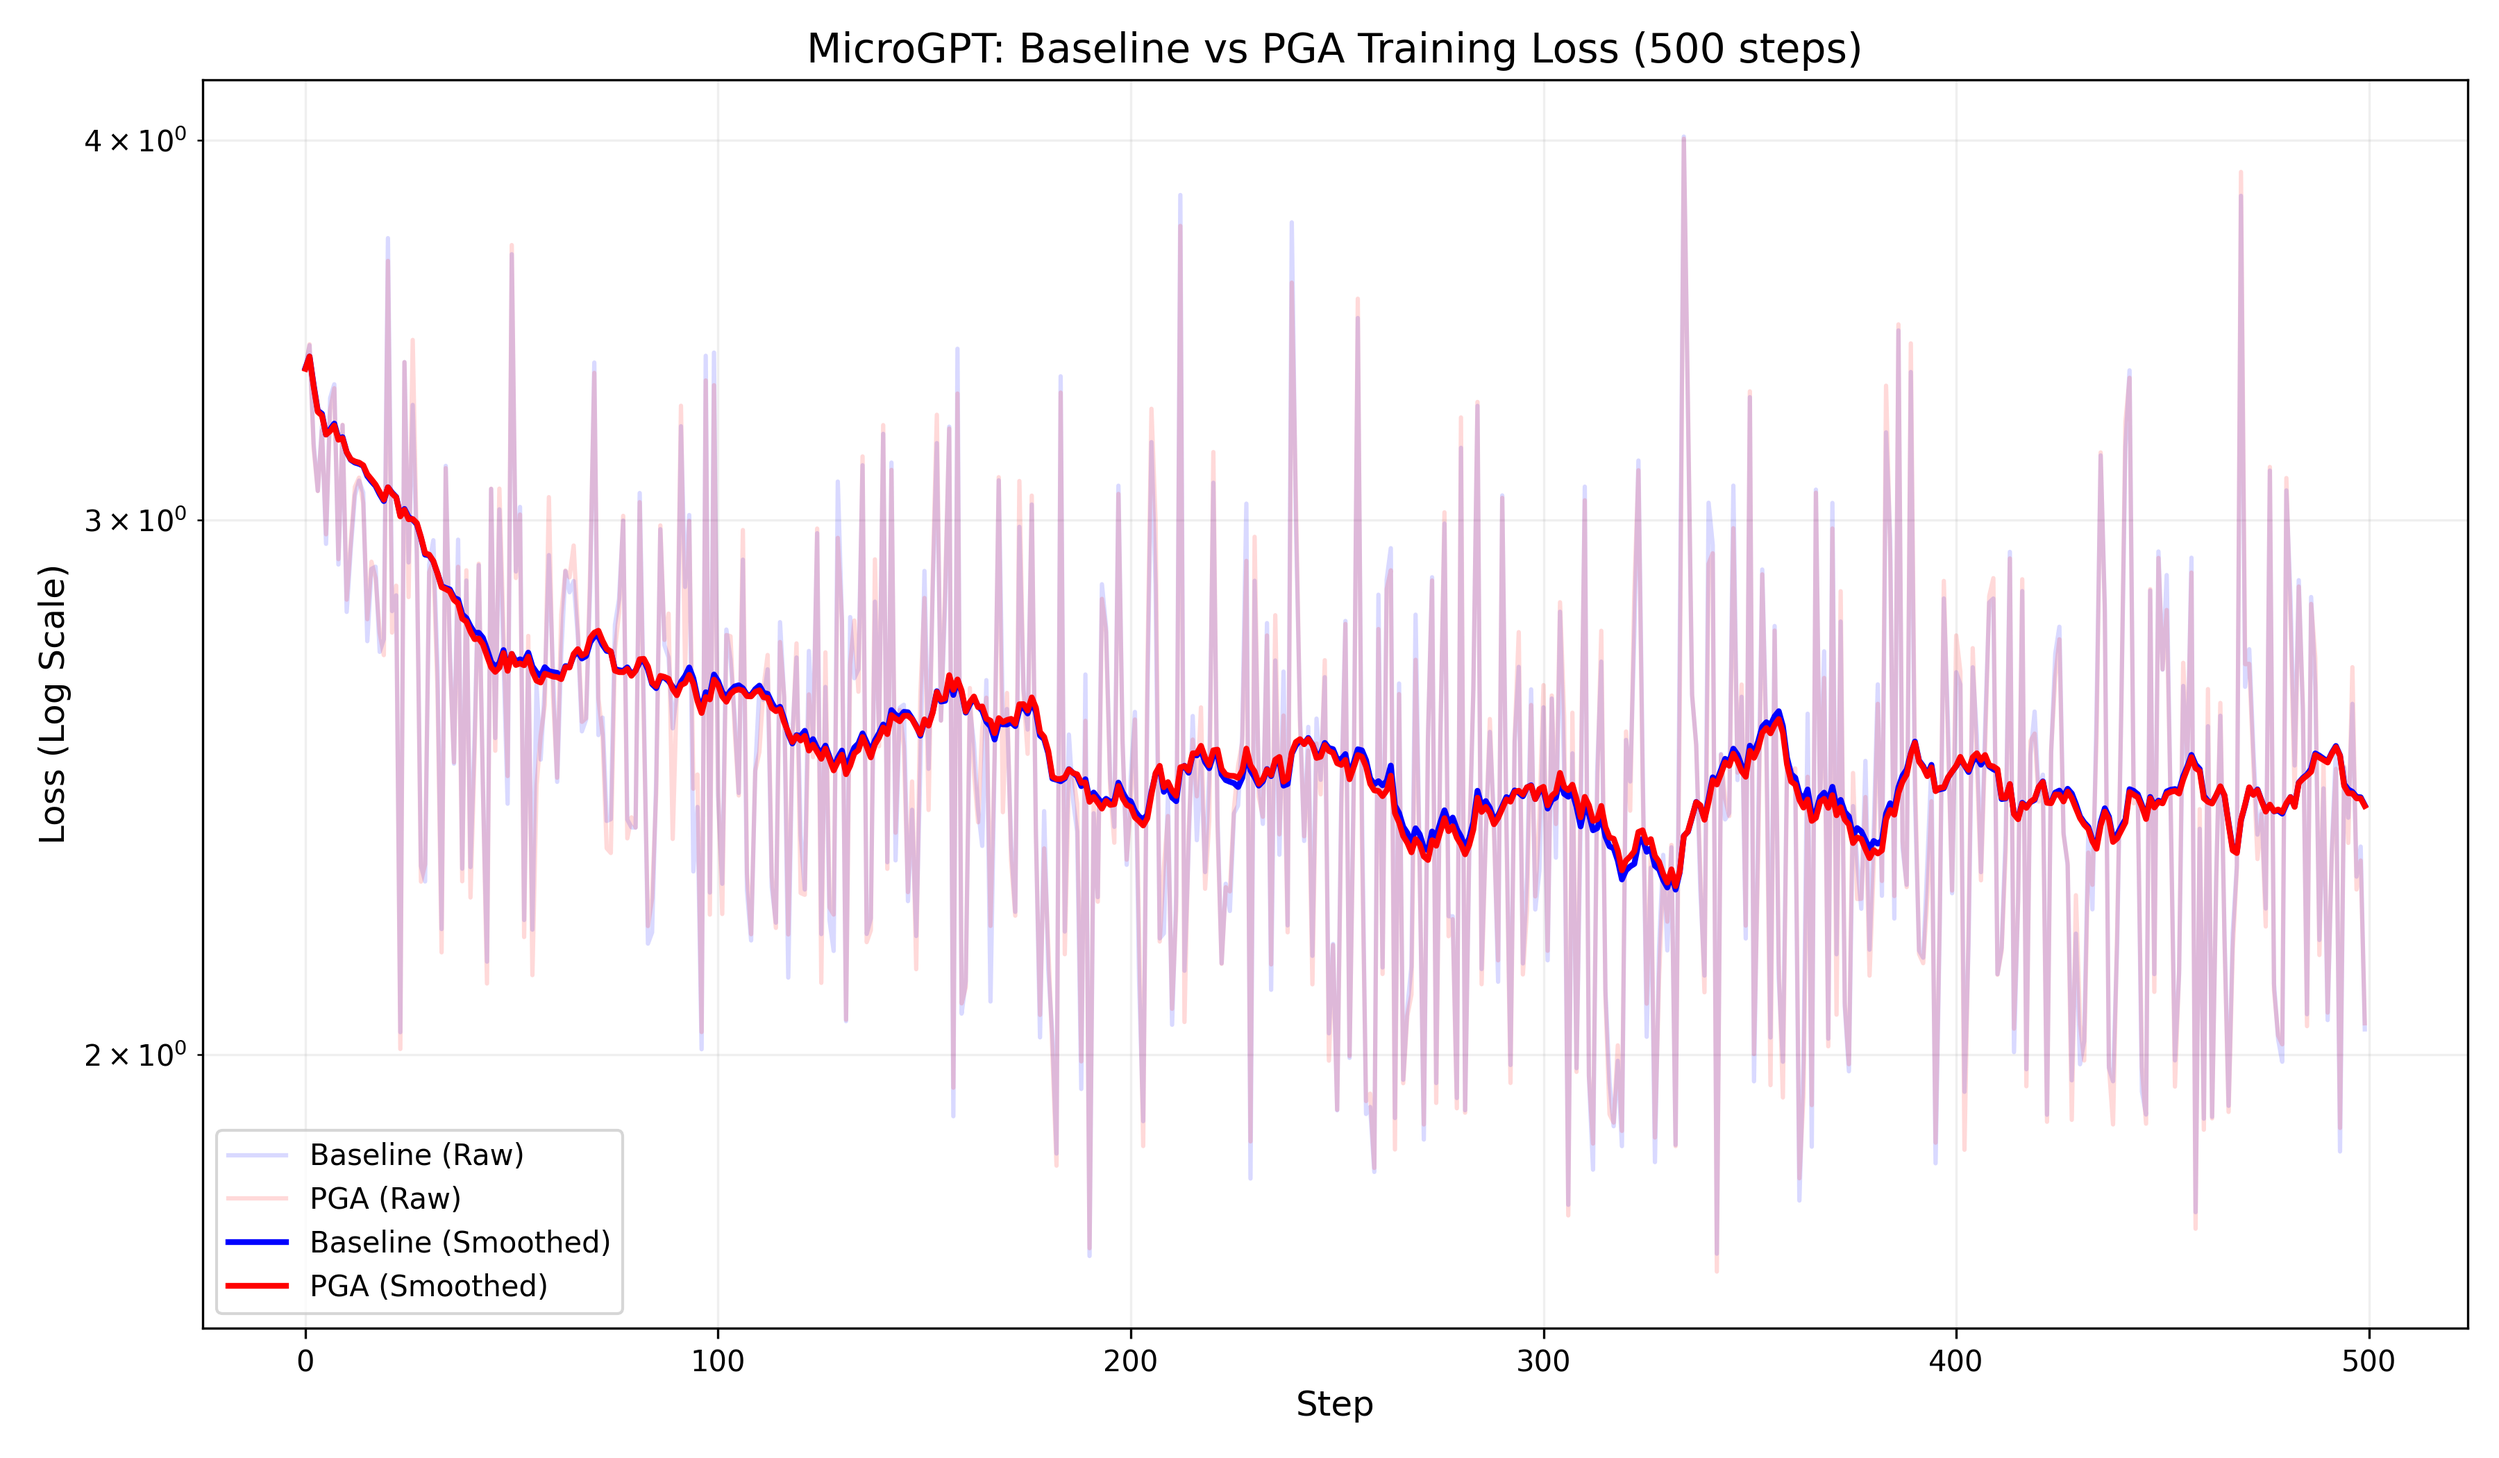
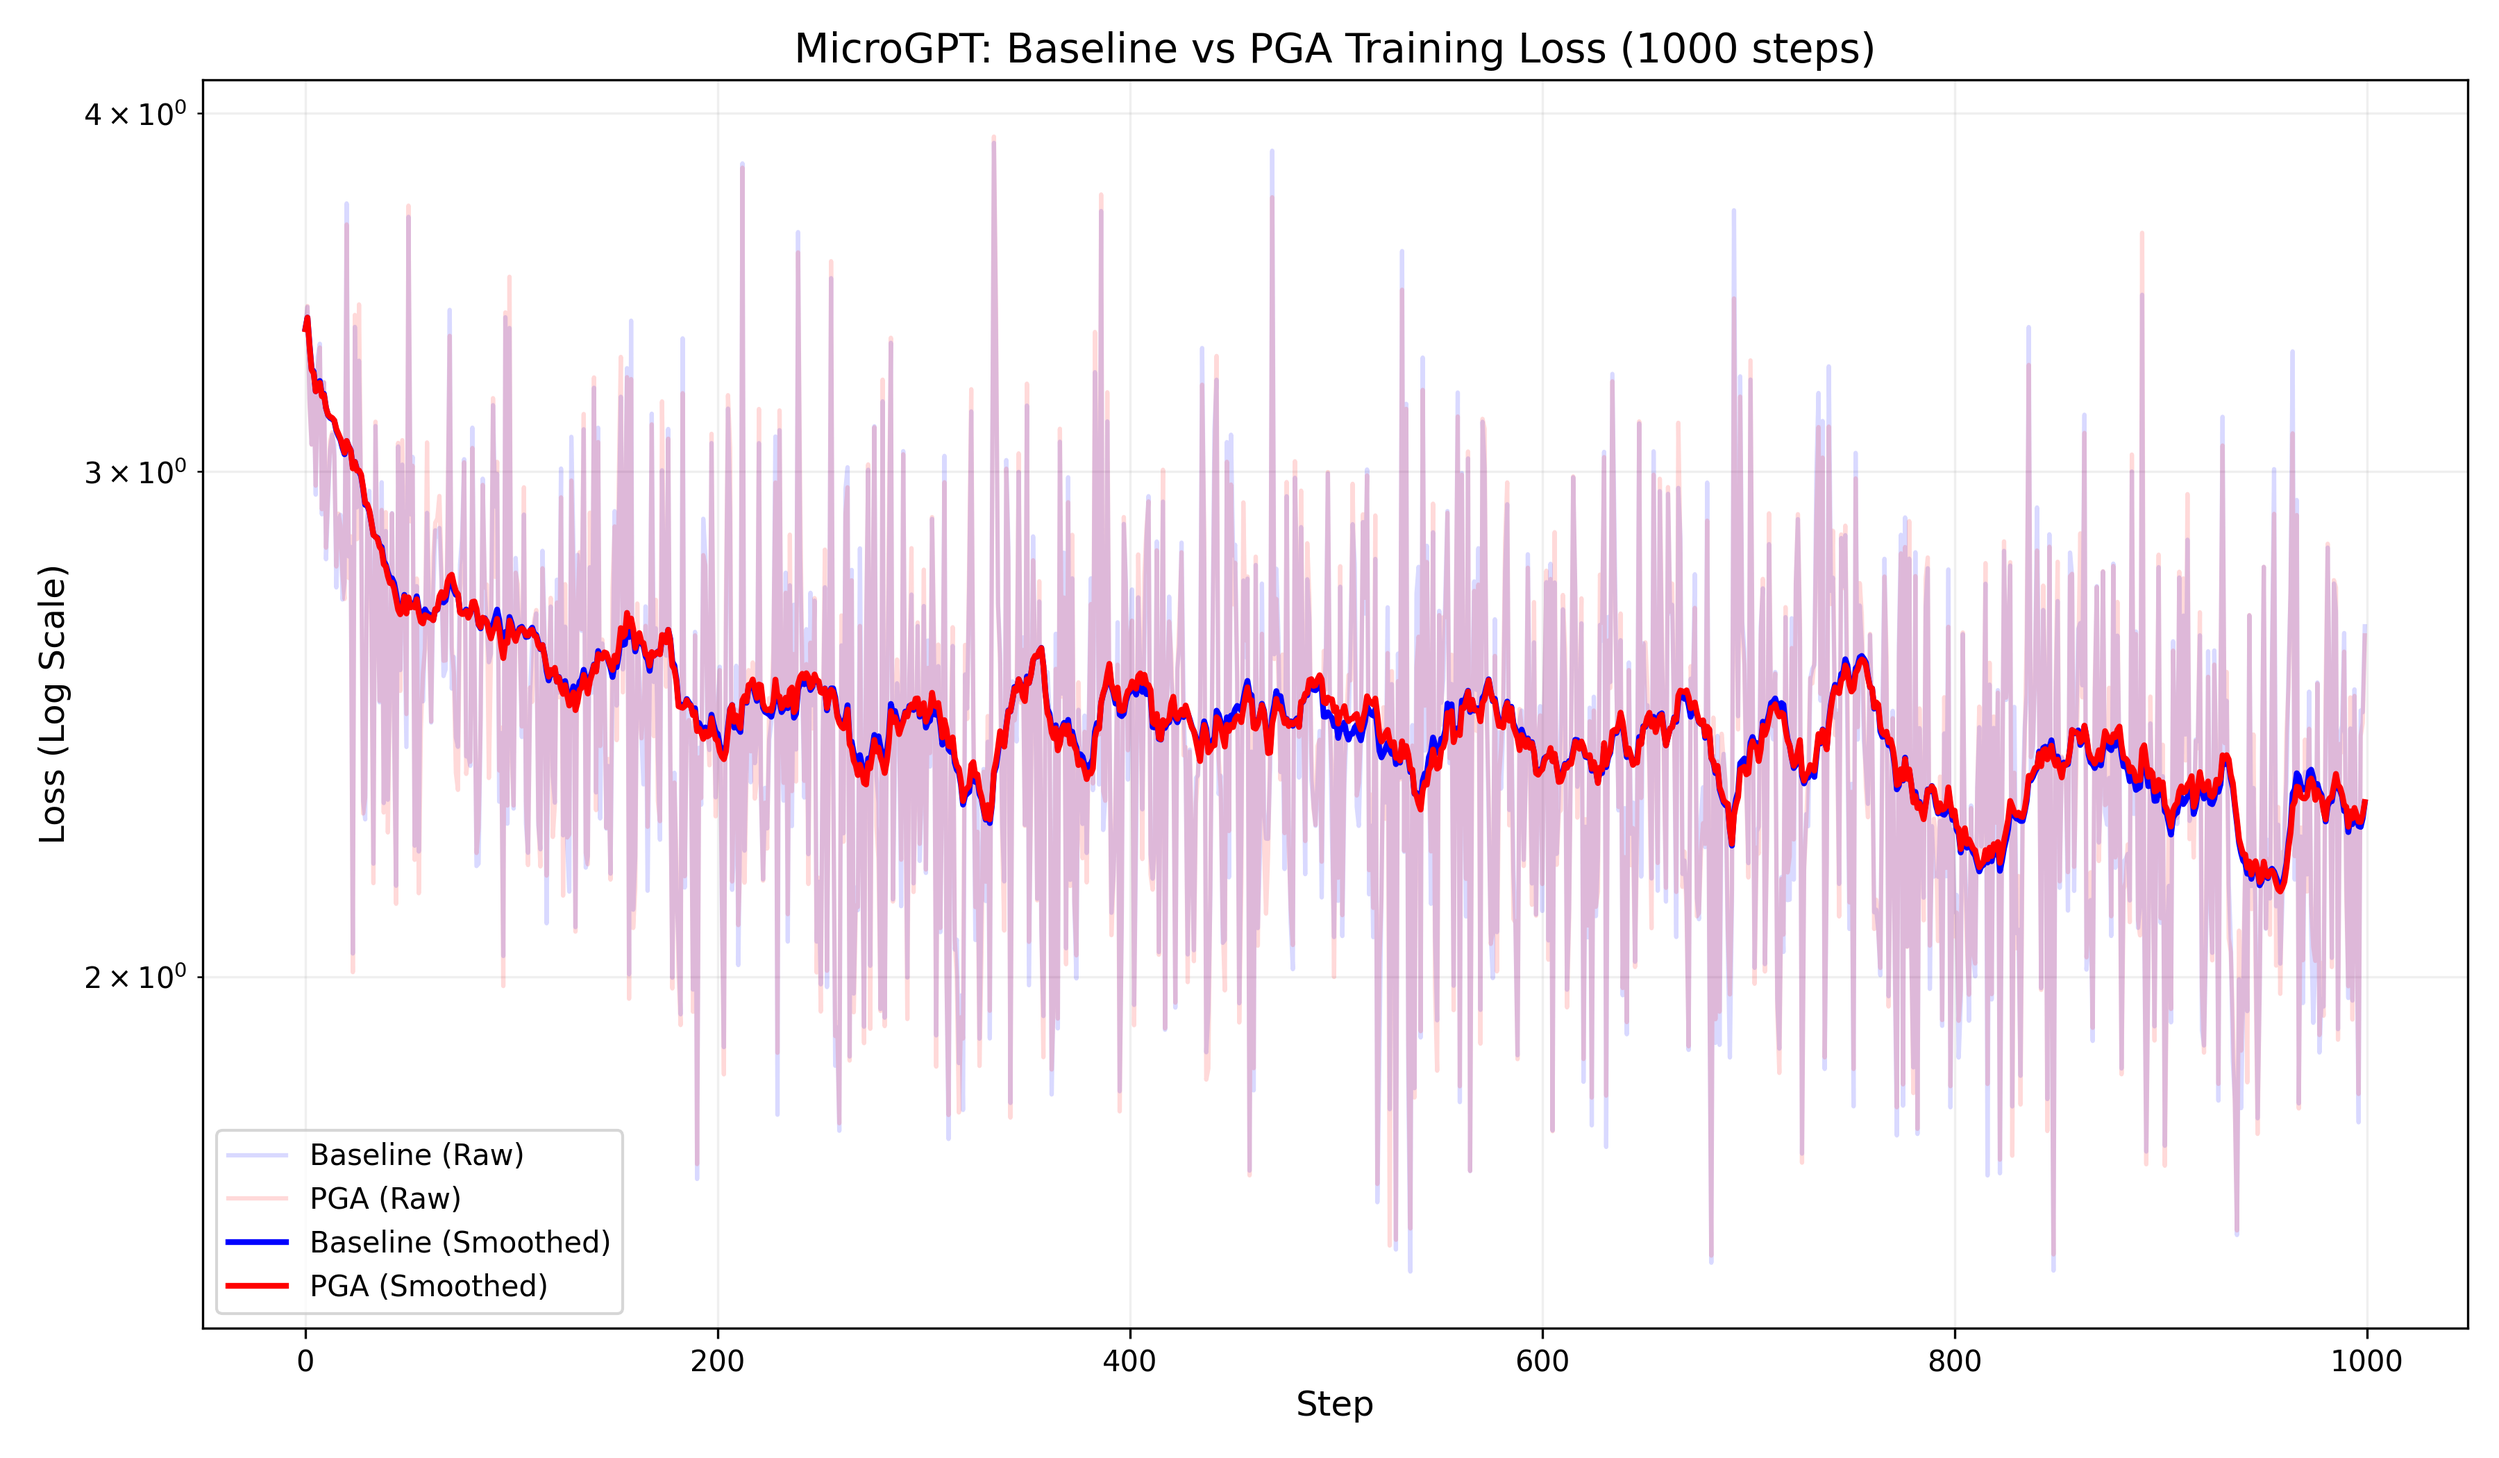
pga_experiment_01 / 1000 steps

diff --git a/sandbox-llm/pga_experiment_01/pipeline.py b/sandbox-llm/pga_experiment_01/pipeline.py
@@ -49,7 +49,7 @@ def moving_average(data, window_size=20):
     return pd.Series(data).rolling(window=window_size, min_periods=1).mean().tolist()
 
 if __name__ == "__main__":
-    STEPS = 500
+    STEPS = 1000
     
     # Run in parallel
     with multiprocessing.Pool(processes=2) as pool:

diff --git a/sandbox-llm/pga_experiment_01/experiment_report.md b/sandbox-llm/pga_experiment_01/experiment_report.md
@@ -1,17 +1,17 @@
 # PGA Experiment Report (Parallel Run)
 
 ## Configuration
-- Steps: 500
+- Steps: 1000
 - Parallel Execution: Enabled (2 processes)
 - Hardware: CPU (Pure Python autograd constraint)
 - Smoothing: Moving Average (Window=25)
 
 ## Results (Last 20 steps average)
-- **Baseline Final Loss**: 2.4464
-- **PGA Final Loss**: 2.4447
+- **Baseline Final Loss**: 2.3572
+- **PGA Final Loss**: 2.3549
 
 ## Performance Analysis
 The plot now uses a **logarithmic scale** for the Y-axis and includes **smoothed trend lines** to visualize the learning trajectory more clearly. 
 
 ## Verdict
-PGA improved performance by 0.0017 loss points.
+PGA improved performance by 0.0023 loss points.
